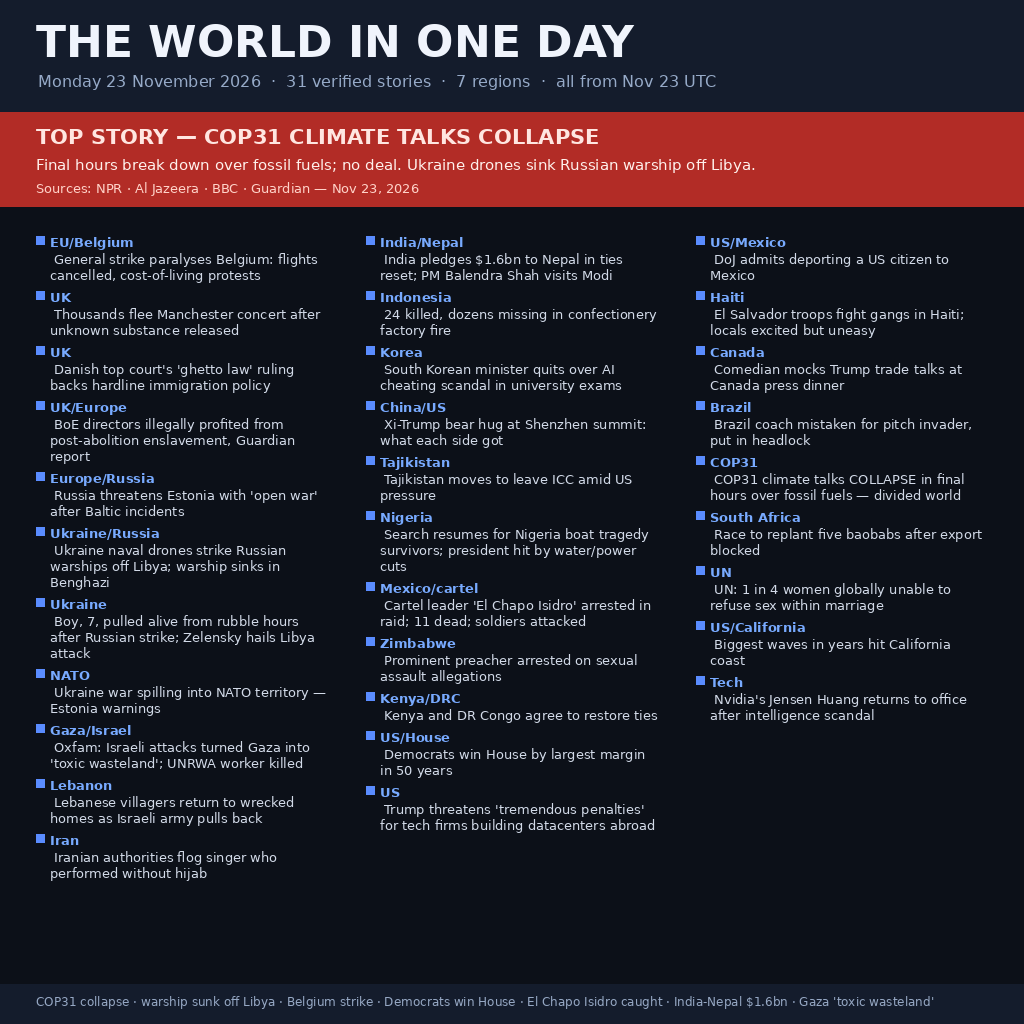
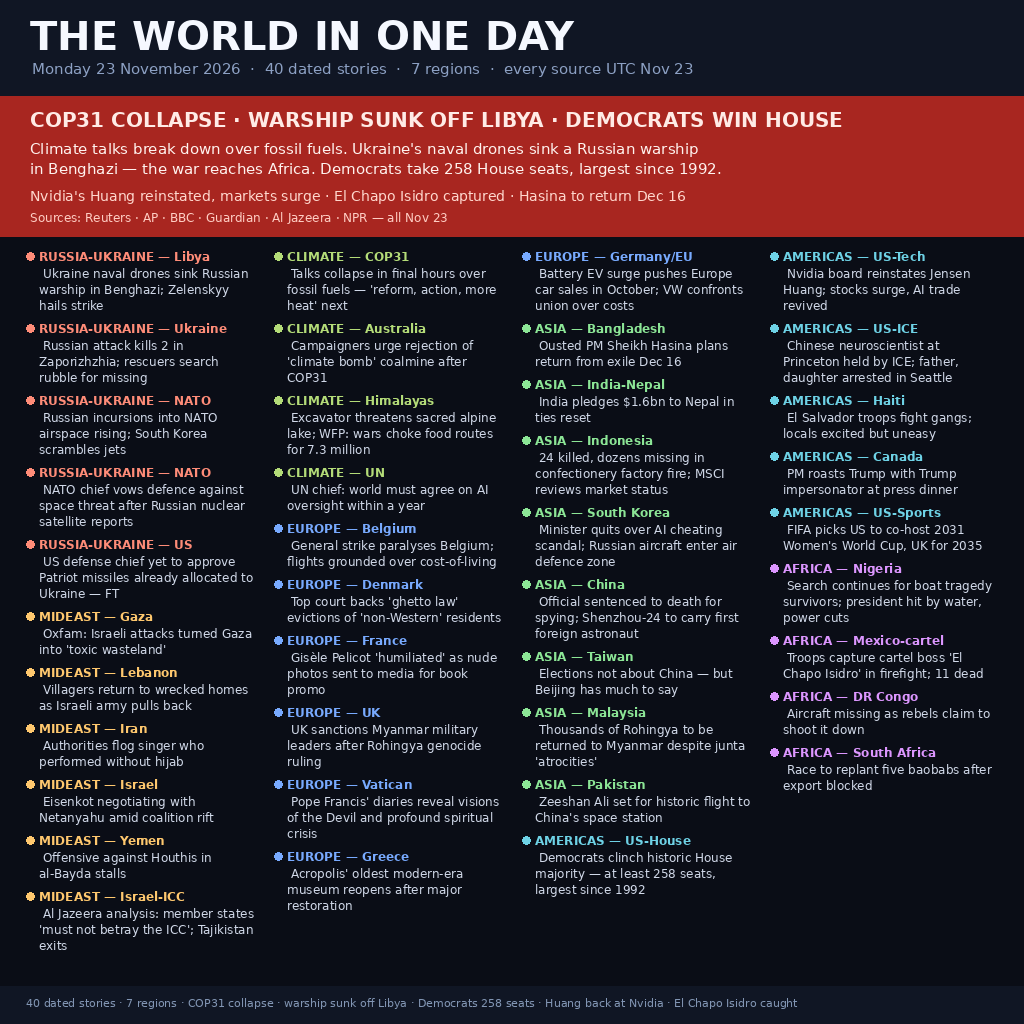
round 3: 40 dated stories, 7 regions, v2 design

Changed region(s): [[0.0, 0.0, 1.0, 0.9375], [0.0312, 0.9688, 0.9062, 1.0], [0.9062, 0.75, 0.9375, 0.7812]]

diff --git a/README.md b/README.md
@@ -4,8 +4,9 @@
 [![rank](https://make.fun/badge/news-image-20261123/Siezy/news-image-20261123-vel2/rank.svg)](https://make.fun/bounty/news-image-20261123/leaderboard?utm_source=github&utm_medium=readme&utm_campaign=news-image-20261123)
 [![reward](https://make.fun/badge/news-image-20261123/Siezy/news-image-20261123-vel2/reward.svg)](https://make.fun/bounty/news-image-20261123?utm_source=github&utm_medium=readme&utm_campaign=news-image-20261123)
 
-Entry for make.fun's "Sum up 23 November's world news in one image": one 1024x1024 image summing 31 verified stories of Monday 23 November 2026 across 7 regions, led by the COP31 collapse and the Ukrainian naval-drone sinking of a Russian warship off Libya. Sources: BBC World, Al Jazeera, NPR, The Guardian.
+Entry for make.fun's "Sum up 23 November's world news in one image": one 1024x1024 image summing 40 dated stories of Monday 23 November 2026 across 7 regions, led by the COP31 collapse and the Ukrainian naval-drone sinking of a Russian warship off Libya. Sources: BBC World, Al Jazeera, NPR, The Guardian.
 Entry image: 31 stories, 7 regions, COP31 lead.
+Round 3 revision: 40 dated stories, 7 regions, v2 design.
 
 ## Run it
 
